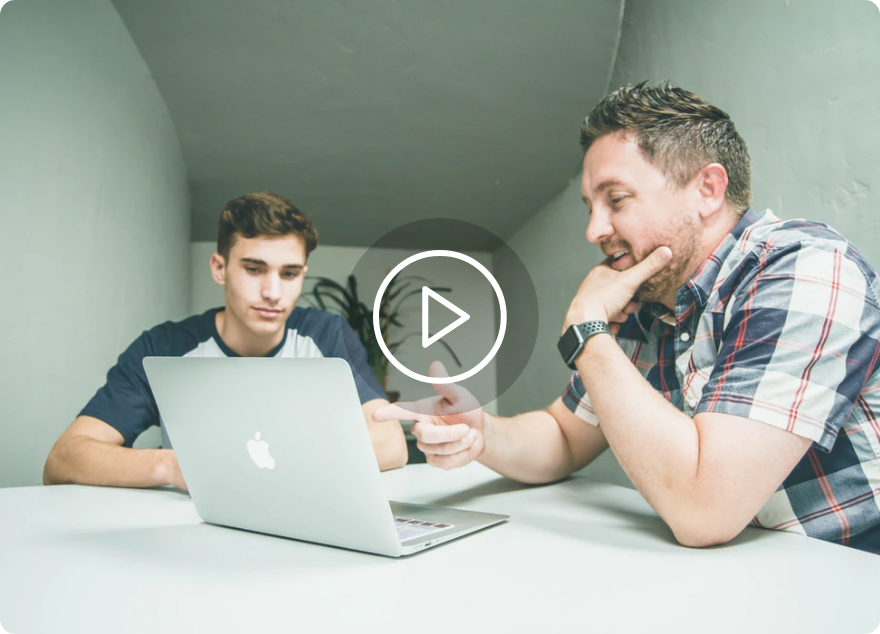
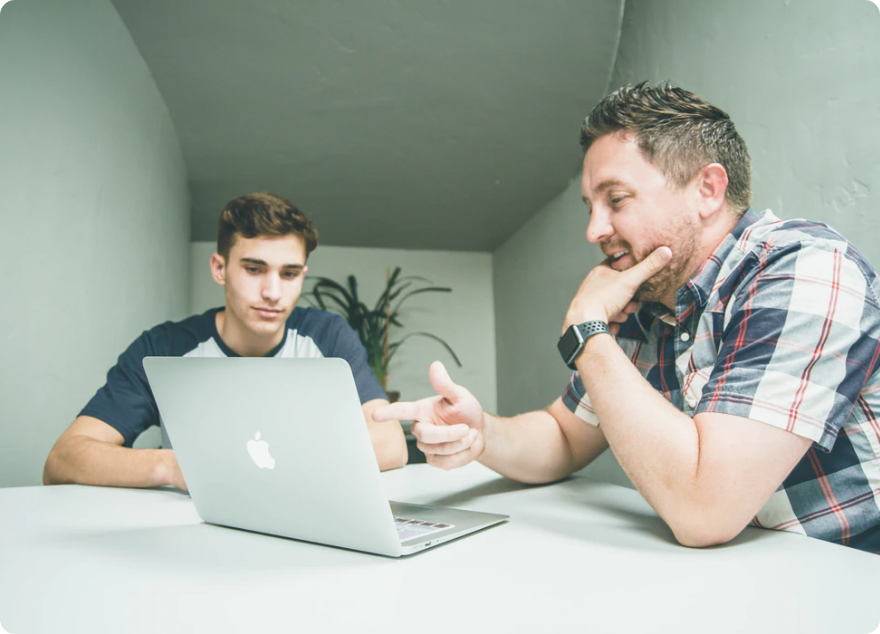
Video play for how it works

Changed region(s): [[0.3682, 0.3896, 0.6136, 0.6593]]

diff --git a/components/landing/HowItWorks/HowItWorks.tsx b/components/landing/HowItWorks/HowItWorks.tsx
@@ -1,3 +1,5 @@
+import ReactPlayer from "react-player";
+
 const HowItWorks: React.FC = (): JSX.Element => {
 	return (
 		<>
@@ -61,11 +63,75 @@ const HowItWorks: React.FC = (): JSX.Element => {
 						</div>
 					</div>
 				</div>
-				<img
+				<div className="md:pt-0 pt-10 md:w-3/5 w-full h-auto">
+					<ReactPlayer
+						url="https://www.houseace.com.au/wp-content/uploads/2021/05/4162.-designnz.mp4"
+						light="/images/landing/video.png"
+						className="react-player"
+						playing
+						width="100%"
+						height="680px"
+						controls={true}
+						playIcon={
+							<button className="hover:text-red">
+								<svg
+									xmlns="http://www.w3.org/2000/svg"
+									width="198"
+									height="198"
+									viewBox="0 0 198 198"
+								>
+									<g
+										id="Group_632"
+										data-name="Group 632"
+										transform="translate(-1156 -2215)"
+									>
+										<circle
+											id="Ellipse_70"
+											data-name="Ellipse 70"
+											cx="99"
+											cy="99"
+											r="99"
+											transform="translate(1156 2215)"
+											fill="rgba(0,0,0,0.2)"
+										/>
+										<g
+											id="Icon_feather-play-circle"
+											data-name="Icon feather-play-circle"
+											transform="translate(1188 2247)"
+										>
+											<path
+												id="Path_307"
+												data-name="Path 307"
+												d="M130.758,66.879A63.879,63.879,0,1,1,66.879,3,63.879,63.879,0,0,1,130.758,66.879Z"
+												fill="none"
+												stroke="#fff"
+												strokeLinecap="round"
+												strokeLinejoin="round"
+												strokeWidth="6"
+											/>
+											<path
+												id="Path_308"
+												data-name="Path 308"
+												d="M15,12,56.624,39.749,15,67.5Z"
+												transform="translate(37.219 27.13)"
+												fill="none"
+												stroke="#fff"
+												strokeLinecap="round"
+												strokeLinejoin="round"
+												strokeWidth="6"
+											/>
+										</g>
+									</g>
+								</svg>
+							</button>
+						}
+					/>
+				</div>
+				{/* <img
 					src="/images/landing/video.png"
 					alt="Video"
 					className="md:pt-0 pt-10 md:w-3/5 w-full h-auto"
-				/>
+				/> */}
 			</div>
 		</>
 	);
